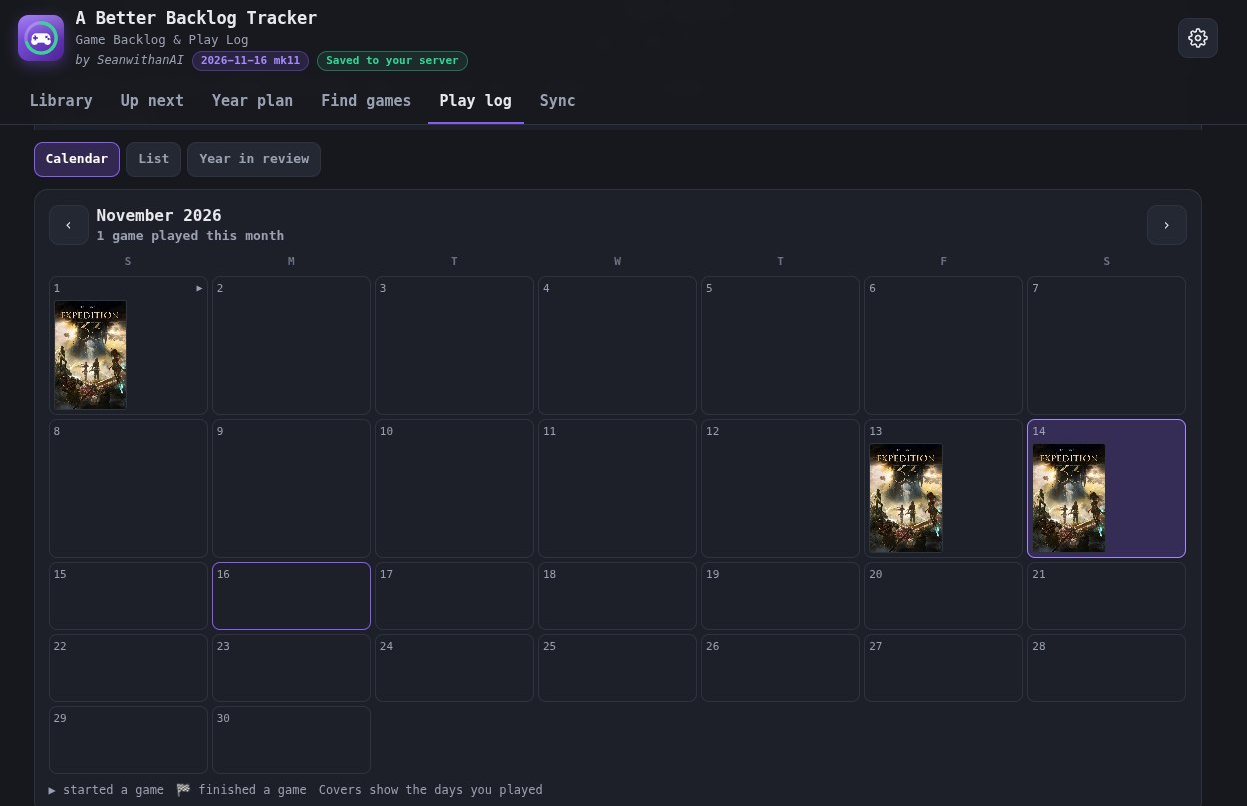
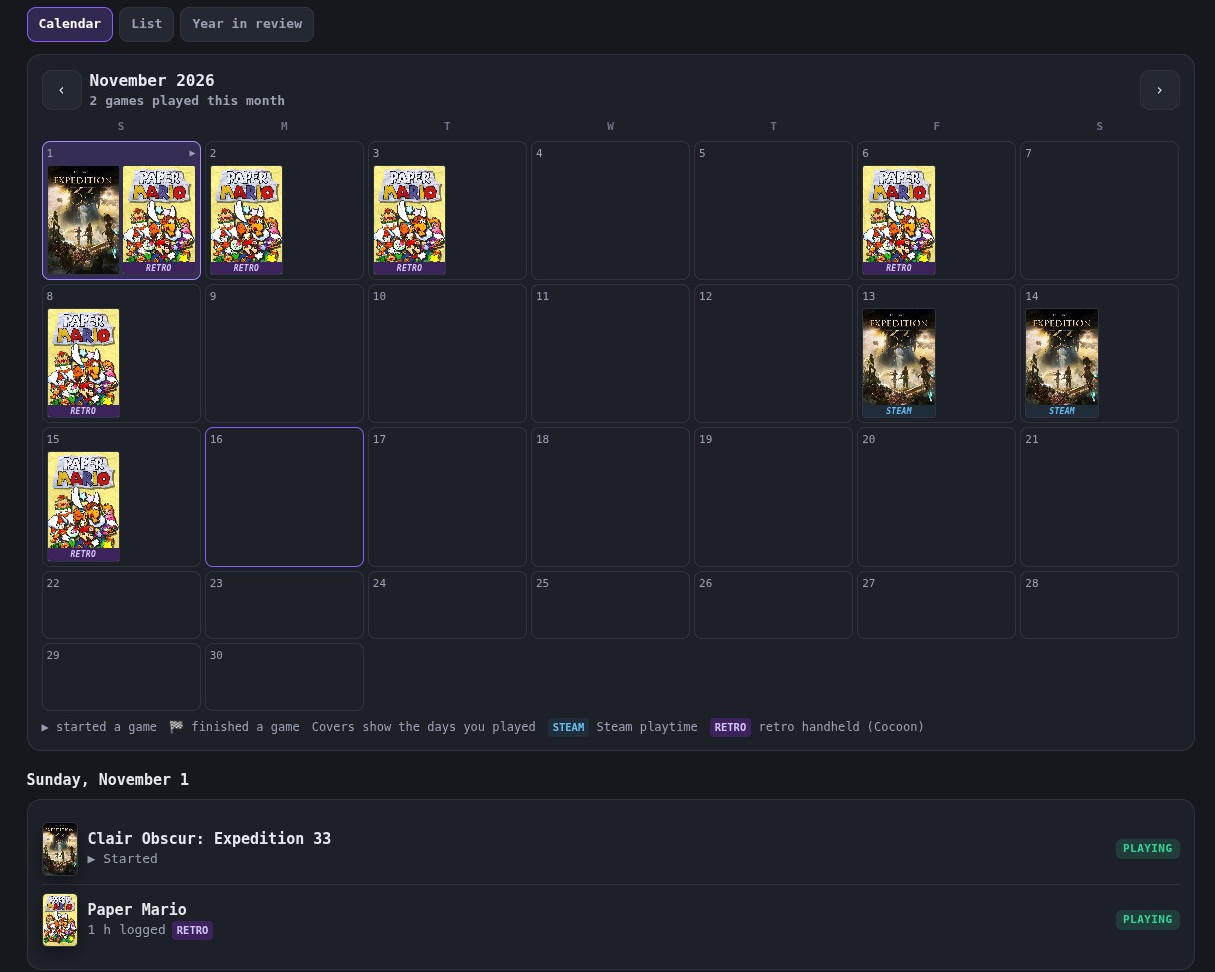
README: calendar screenshot with RETRO and STEAM tags
Claude-Session: https://claude.ai/code/session_01JotVZ5QiKzr5tPAoQnnmwj

diff --git a/README.md b/README.md
@@ -67,7 +67,7 @@ Backloggd has no export of its own, so a free, open-source browser extension add
 
 | Year in review | Play log calendar |
 |---|---|
-| ![Year in review: totals, highlights and month by month](docs/screenshots/recap.png) | ![Play log calendar: covers on the days you played](docs/screenshots/calendar.png) |
+| ![Year in review: totals, highlights and month by month](docs/screenshots/recap.png) | ![Play log calendar: covers on the days you played, tagged RETRO for retro handheld (Cocoon) and STEAM for Steam](docs/screenshots/calendar.png) |
 
 <sub>Screenshots from a real library.</sub>
 
